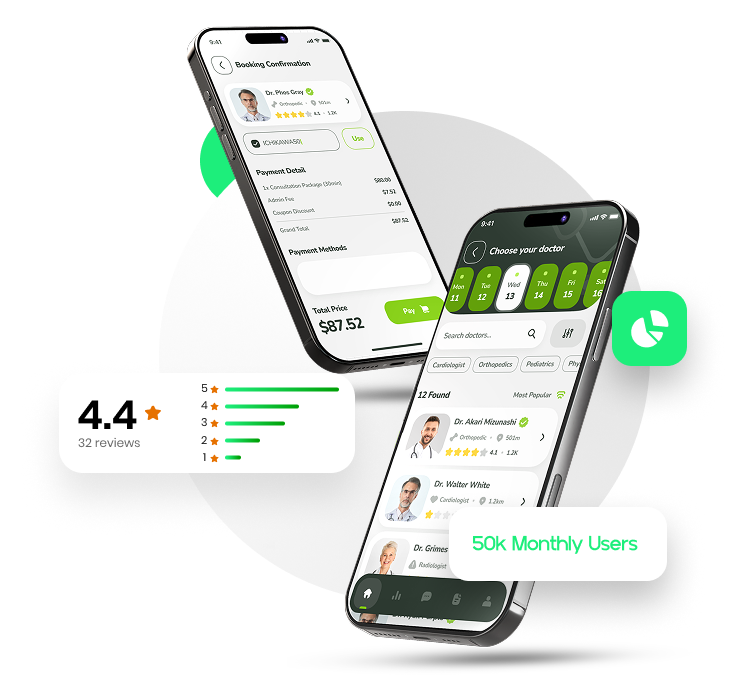
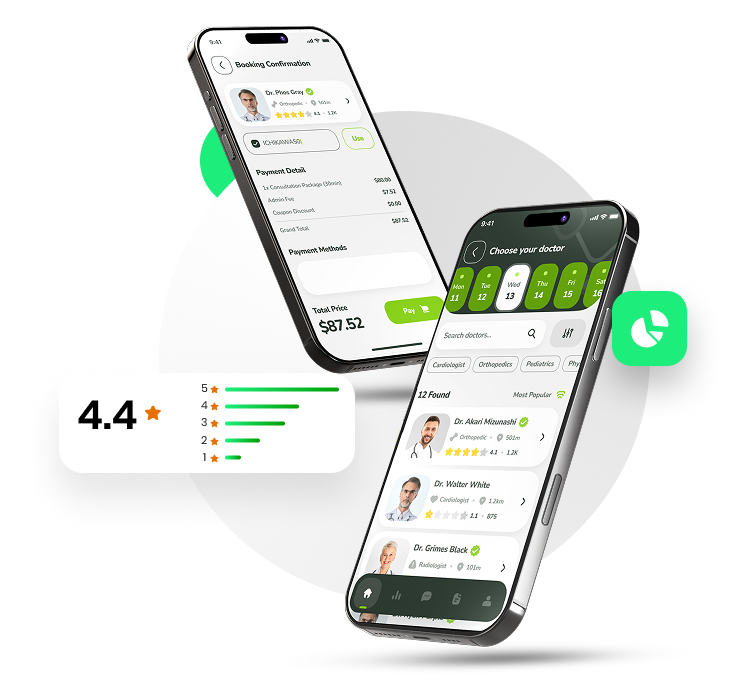
upd2 commit

diff --git a/index.html b/index.html
@@ -236,17 +236,7 @@
                         </div>
                     </div>
                     <!-- Service 3 -->
-                    <div>
-                        <div class="feature-card hover-effect">
-                            <div class="icon-circle">
-                                <i class="fa-solid fa-pills icon"></i>
-                            </div>
-                            <h3 class="feature-title">Doorstep Pharmacy Delivery</h3>
-                            <p class="feature-description">Upload your prescription and our <span
-                                    class="highlight">smart chat system</span> instantly confirms your order. Medicines
-                                delivered right to your doorstep—fast and secure!</p>
-                        </div>
-                    </div>
+                   
 
                     <!-- Service 4 -->
 
@@ -255,6 +245,21 @@
 
 
                     <!-- Service 6 -->
+                    <div>
+                        <div class="feature-card hover-effect">
+                            <div class="icon-circle">
+                                <i class="fa-solid fa-robot icon"></i>
+                            </div>
+                            <h3 class="feature-title">Doorstep Pharmacy Delivery</h3>
+                            <p class="feature-description">smart chat system</span> instantly confirms your order. Medicines
+                                delivered right to your doorstep—fast and secure!</p>
+                            <div class="coming-soon-overlay">
+                                <span class="coming-soon-text">Coming Soon</span>
+                                <span class="coming-soon-subtext">We're working on it!</span>
+                            </div>
+                            <span class="coming-soon-badge">Coming Soon</span>
+                        </div>
+                    </div>
                     <div>
                         <div class="feature-card hover-effect">
                             <div class="icon-circle">
@@ -588,21 +593,21 @@
                     </div>
 
                     <!-- Testimonial 2 -->
-                    <div>
+                    <!-- <div>
                         <div class="testimonial-card">
                             <h3 class="text-xl font-semibold mb-4">Smart & User-Friendly!</h3>
                             <p class="quote-text">"Even my parents find your app easy to use! The AI symptom checker
                                 gives helpful insights before consulting a doctor."</p>
                             <div class="user-info">
-                                <img style="width:50px !important;border:1px solid #000;border-radius:50%;"
-                                    src="./assets/images/nisam.webp" alt="User Avatar" class="user-avatar">
+                                 <img style="width:50px !important;border:1px solid #000;border-radius:50%;"
+                                    src="./assets/images/profile.png" alt="User Avatar" class="user-avatar">
                                 <div>
-                                    <p class="font-bold">Nisam Naser</p>
+                                    <p class="font-bold">nasim</p>
                                     <p class="text-gray-600 text-sm">College Student</p>
                                 </div>
                             </div>
                         </div>
-                    </div>
+                    </div> -->
 
                     <!-- Testimonial 3 -->
                     <div>
@@ -648,7 +653,7 @@
                                 <img style="width:50px !important;border:1px solid #000;border-radius:50%;"
                                     src="./assets/images/profile.png" alt="User Avatar" class="user-avatar">
                                 <div>
-                                    <p class="font-bold">Muhammed Sinan A K</p>
+                                    <p class="font-bold">sanjay</p>
                                     <p class="text-gray-600 text-sm">student</p>
                                 </div>
                             </div>
@@ -875,14 +880,14 @@
                         </div>
 
                         <div class="contact-option-item">
-                            <a href="#" class="text-decoration-none">
+                            <a href="https://www.linkedin.com/company/zappq/" class="text-decoration-none">
                                 <i class="fab fa-linkedin"></i>
                                 <span>Message on LinkedIn</span>
                             </a>
                         </div>
 
                         <div class="contact-option-item">
-                            <a href="#" class="text-decoration-none">
+                            <a href="https://www.instagram.com/zappq.app?igsh=MWo3bWNjeTd0M2ZzYw==" class="text-decoration-none">
                                 <i class="fab fa-instagram"></i>
                                 <span>Message on Instagram</span>
                             </a>
@@ -892,7 +897,7 @@
                         <div class="contact-option-item">
                             <a href="tel:+917558995555" class="text-decoration-none">
                                 <i class="fas fa-phone-alt"></i>
-                                <span>+91 (755)899 5555</span>
+                                <span>+91 755899 5555</span>
                             </a>
                         </div>
 
